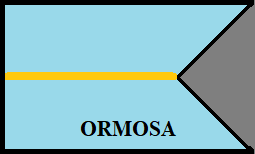
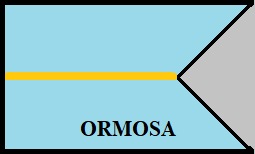
Edit Textures for Menus and Backgrounds
Also, add title to mission briefing.

Changed region(s): [[0.6863, 0.0, 1.0, 1.0]]

diff --git a/inputLayer.cpp b/inputLayer.cpp
@@ -1227,7 +1227,6 @@ int inputLayer::printMissionBriefing(MasterBoard* boardToInput)
 
 	sf::String boardMessage;
 
-
 	sf::Sprite backgroundSprite;
 	backgroundSprite.setTexture(MainMenu->otherGameTextures->at(1));
 	inputLayerWindow->draw(backgroundSprite);
@@ -1237,6 +1236,11 @@ int inputLayer::printMissionBriefing(MasterBoard* boardToInput)
 	menuBackgroundSprite.setPosition(IL_WIDTH_OFFSET, IL_HEIGHT_OFFSET);
 	inputLayerWindow->draw(menuBackgroundSprite);
 
+	//Title text
+	sf::Text titleText("MISSON BRIEFING", *inputLayerBoldFont, 50);
+	titleText.setPosition(IL_WIDTH_OFFSET + 360, IL_HEIGHT_OFFSET + 70);
+	titleText.setFillColor(sf::Color::Black);
+	inputLayerWindow->draw(titleText);
 
 	if (boardToInput->missionFlag == true)
 	{
@@ -1251,7 +1255,7 @@ int inputLayer::printMissionBriefing(MasterBoard* boardToInput)
 	boardMessage += "\n\nPress any key to continue.";
 
 	sf::Text newText(boardMessage, *inputLayerFont, MainMenu->menuTextSize);
-	newText.setPosition(IL_WIDTH_OFFSET + 70, IL_HEIGHT_OFFSET + 100);
+	newText.setPosition(IL_WIDTH_OFFSET + 70, IL_HEIGHT_OFFSET + 150);
 	newText.setFillColor(sf::Color::Black);
 
 	inputLayerWindow->draw(newText);
